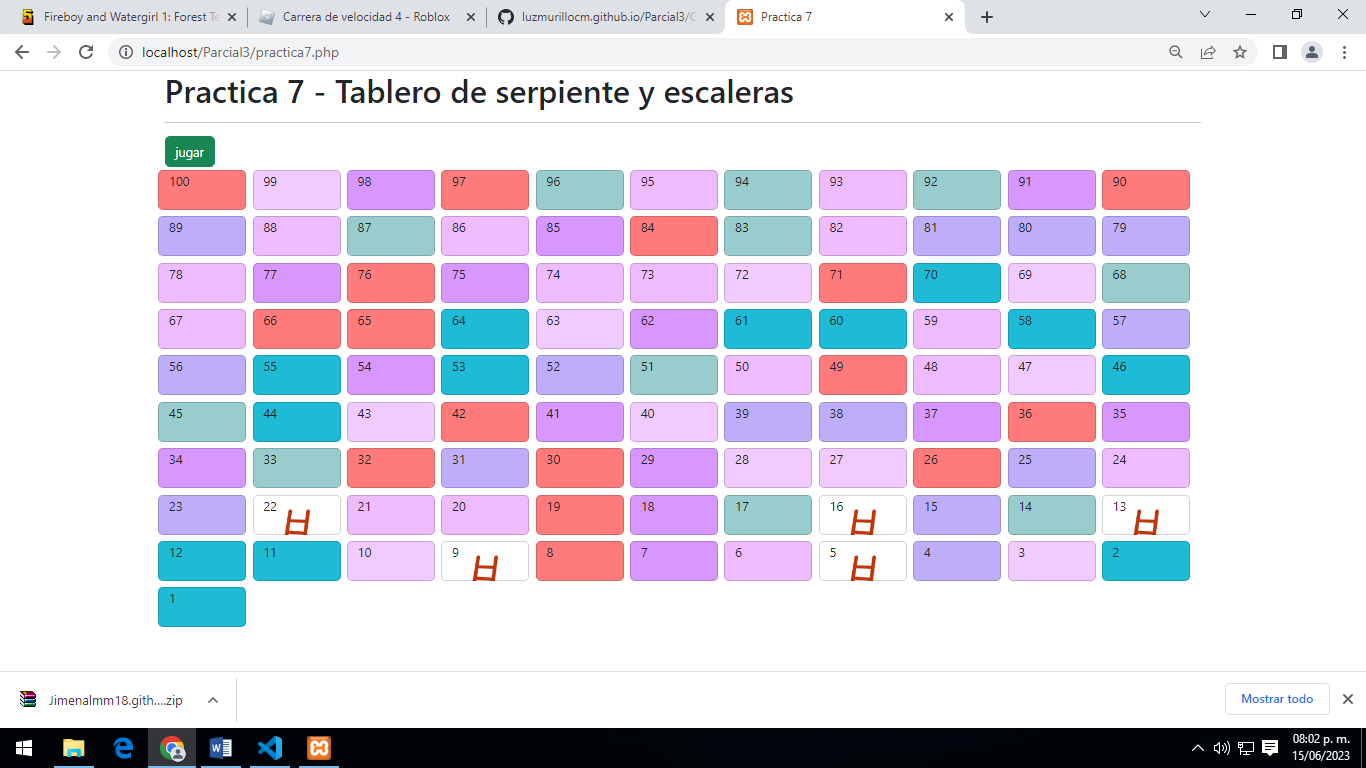
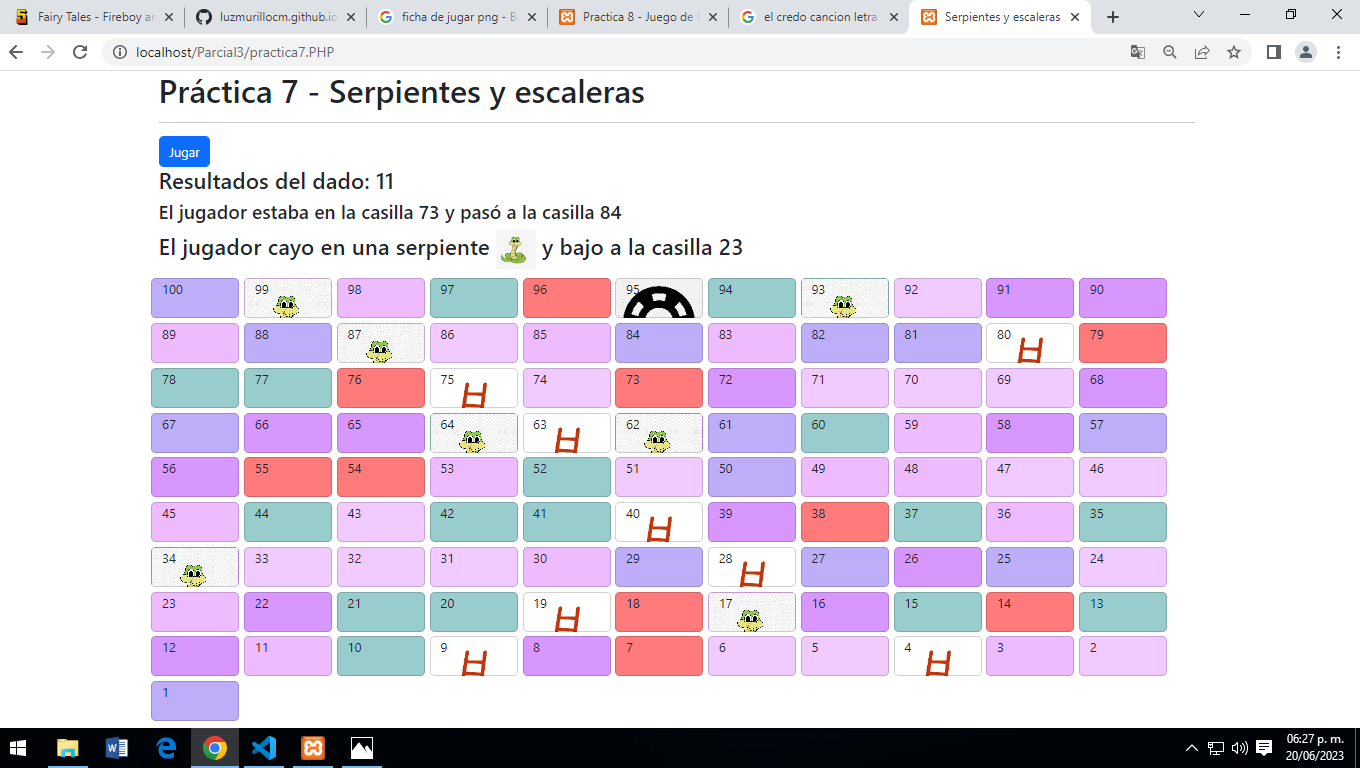
practica 7

diff --git a/Parcial3/practica7.php b/Parcial3/practica7.php
@@ -4,46 +4,132 @@
     <meta charset="UTF-8">
     <meta http-equiv="X-UA-Compatible" content="IE=edge">
     <meta name="viewport" content="width=device-width, initial-scale=1.0">
-    <title>Practica 7</title>
+    <title>Serpientes y escaleras</title>
     <link rel="stylesheet" href="bootstrap.css">
     <style>
         .casilla{
             height: 50px;
+            margin: 3px;
         }
         .escalera{
             background-image: url('escalera.png');
+            background-size: cover;           
+             margin: 3px;
+        }
+        .snake{
+            background-image: url('serpiente.jpg');
             background-size: cover;
-        }
-        .serpiente{
-            background-image: url('serpiente.png');
-            background-size: 85%;
             background-repeat: no-repeat;
-            background-position: center;
+            margin: 3px;
         }
-    </style>
+        .jugador{
+            background-image: url('ficha.png');
+            background-size: cover;           
+
+        }
+        </style>
 </head>
 <body>
-    <?php
-        $colores = ["#efbbff", "#d896ff", "#beaefa", "#99cccc", "#f1cbff", "#ff7b7b", "#1ebbd7"];
-    ?>
+    
     <div class="container">
-    <h1>Practica 7 - Tablero de serpiente y escaleras</h1><hr>
-        <form action="practica7.php" method= "post">
-            <input type="submit" value="jugar" class="btn btn-success" >
-        <div class="row">
-            <?php
-            for($i=100; $i>0; $i--){
-                if($i == 22 || $i == 13 || $i == 5 || $i == 9 || $i == 16 ){
-                    echo "<div class='col-1 card m-1 casilla escalera' style='background-color:".$colores[rand(0,6)].";'>".$i."</div>";
-                }else if($i == 28 || $i == 15 || $i == 2 || $i == 65 || $i == 99 ){
-                    echo "<div class='col-1 card m-1 casilla serpiente' style='background-color:".$colores[rand(0,6)].";'>".$i."</div>";
-                
-                }else{
-                    echo "<div class='col-1 card m-1 casilla' style='background-color:".$colores[rand(0,6)].";'>".$i."</div>";
-                }  
-              }
-            ?>
+        <h1>Práctica 7 - Serpientes y escaleras</h1><hr>
+        <form action="practica7.PHP" method="POST">
+            <input type="submit" value="Jugar" class="btn btn-primary">
+            <div class="row">
+                <?php
+                    $colores=["#efbbff", "#d896ff", "#beaefa", "#99cccc", "#f1cbff", "#ff7b7b", "#1ebbd7"];
+                    if(isset($_POST["casilla"])){
+                        $dado= rand(1,12);
+                        echo "<h3>Resultados del dado: ".$dado."</h3>";
+                        $casilla=$dado+intval($_POST["casilla"]);
+                        echo "<h4>El jugador estaba en la casilla ".intval($_POST["casilla"]) ." y pasó a la casilla ".$casilla."</h4>";
+
+                        if($casilla >= 100){
+                            echo "<h1> El jugador gano </h1>";
+                            $casilla = 100;
+                        }
+                        if($casilla == 80){
+                            $casilla = 91;
+                            echo "<h3> El jugador cayo en una escalera <img src='escalera.png' width='50px'> y subio a la casilla 15</h3>";
+                        }
+                        if($casilla == 75){
+                            $casilla = 86;
+                            echo "<h3> El jugador cayo en una escalera <img src='escalera.png' width='50px'> y subio a la casilla 20</h3>";
+                        }
+                        if($casilla == 63){
+                            $casilla = 74;
+                            echo "<h3> El jugador cayo en una escalera <img src='escalera.png' width='50px'> y subio a la casilla 30</h3>";
+                        }
+                        if($casilla == 40){
+                            $casilla = 51;
+                            echo "<h3> El jugador cayo en una escalera <img src='escalera.png' width='50px'> y subio a la casilla 39</h3>";
+                        }
+                        if($casilla == 28){
+                            $casilla = 39;
+                            echo "<h3> El jugador cayo en una escalera <img src='escalera.png' width='50px'> y subio a la casilla 51</h3>";
+                        }
+                        if($casilla == 19){
+                            $casilla = 30;
+                            echo "<h3> El jugador cayo en una escalera <img src='escalera.png' width='50px'> y subio a la casilla 74</h3>";
+                        }
+                        if($casilla == 9){
+                            $casilla = 20;
+                            echo "<h3> El jugador cayo en una escalera <img src='escalera.png' width='50px'> y subio a la casilla 86</h3>";
+                        }
+                        if($casilla == 4){
+                            $casilla = 15;
+                            echo "<h3> El jugador cayo en una escalera <img src='escalera.png' width='50px'> y subio a la casilla 91</h3>";
+                        }
+                        if($casilla == 88){
+                            $casilla = 99;
+                            echo "<h3> El jugador cayo en una serpiente <img src='serpiente.jpg' width='50px'> y bajo a la casilla 6</h3>";
+                        }
+                        if($casilla == 84){
+                            $casilla = 95;
+                            echo "<h3> El jugador cayo en una serpiente <img src='serpiente.jpg' width='50px'> y bajo a la casilla 23</h3>";
+                        }
+                        if($casilla == 82){
+                            $casilla = 93;
+                            echo "<h3> El jugador cayo en una serpiente <img src='serpiente.jpg' width='50px'> y bajo a la casilla 51</h3>";
+                        }
+                        if($casilla == 76){
+                            $casilla = 87;
+                            echo "<h3> El jugador cayo en una serpiente <img src='serpiente.jpg' width='50px'> y bajo a la casilla 53</h3>";
+                        }
+                        if($casilla == 53){
+                            $casilla = 64;
+                            echo "<h3> El jugador cayo en una serpiente <img src='serpiente.jpg' width='50px'> y bajo a la casilla 76</h3>";
+                        }
+                        if($casilla == 51){
+                            $casilla = 62;
+                            echo "<h3> El jugador cayo en una serpiente <img src='serpiente.jpg' width='50px'> y bajo a la casilla 82</h3>";
+                        }
+                        if($casilla == 23){
+                            $casilla = 34;
+                            echo "<h3> El jugador cayo en una serpiente <img src='serpiente.jpg' width='50px'> y bajo a la casilla 84</h3>";
+                        }
+                        if($casilla == 6){
+                            $casilla = 17;
+                            echo "<h3> El jugador cayo en una serpiente <img src='serpiente.jpg' width='50px'> y bajo a la casilla 88</h3>";
+                        }
+                    }
+
+                ?>
+                <?php
+                    for($i=100; $i>0; $i--){
+                        if($casilla == $i){
+                            echo "<div class='col-1 card casilla jugador' style='background-color:".$colores[rand(0,5)].";'>".$i."</div>";
+                        }elseif($i==17 ||$i==34||$i==99||$i==64||$i==95||$i==93||$i==87||$i==62){
+                            echo "<div class='col-1 card casilla snake' style='background-color:".$colores[rand(0,5)].";'>".$i."</div>";
+                        }elseif($i==4 ||$i==9||$i==19||$i==28||$i==40||$i==63||$i==80||$i==75){
+                            echo "<div class='col-1 card casilla escalera' style='background-color:".$colores[rand(0,5)].";'>".$i."</div>";                           
+                        }else{
+                            echo "<div class='col-1 card casilla' style='background-color:".$colores[rand(0,5)].";'>".$i."</div>";                           
+                        }
+                    }
+                ?>
             </div>
+            <input type="hidden" name="casilla" value="<?php echo $casilla;?>">
         </form>
     </div>
 </body>
